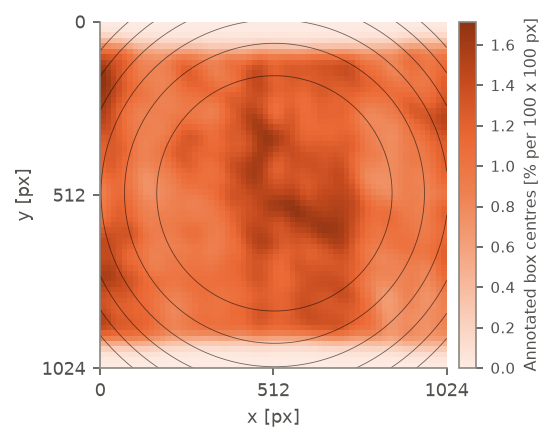
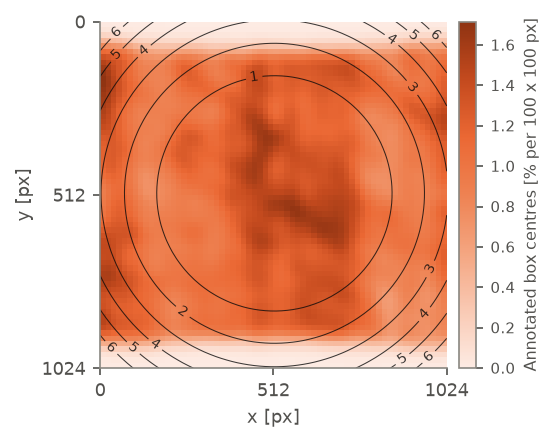
Error budget: contour labels on the density panel
Claude-Session: https://claude.ai/code/session_01Bmanwr9fWBoZuhRVuTCxhm

diff --git a/evaluation/error_budget/report.py b/evaluation/error_budget/report.py
@@ -159,7 +159,8 @@ def main():
     share = dens / dens.sum() * 100 / cell                               # % of all boxes per 100 x 100 px
     im = ax.pcolormesh(xe, ye, share, cmap=cmap_o, vmin=0, shading="flat", rasterized=False, linewidth=0, antialiased=False)
     ax.set_xlim(0, C.W); ax.set_ylim(C.H, 0); ax.set_aspect("equal")
-    ax.contour(xs, ys, field * 100, levels=[1, 2, 3, 4, 5, 6], colors=INK, linewidths=0.4, alpha=0.6)
+    cs = ax.contour(xs, ys, field * 100, levels=[1, 2, 3, 4, 5, 6], colors=INK, linewidths=0.5, alpha=0.8)
+    ax.clabel(cs, fmt="%g", fontsize=6.5)
     ax.set_xticks([0, 512, 1024]); ax.set_yticks([0, 512, 1024]); ax.grid(False)
     ax.set_xlabel("x [px]"); ax.set_ylabel("y [px]")
     cb = fig.colorbar(im, ax=ax, fraction=0.046, pad=0.03)
